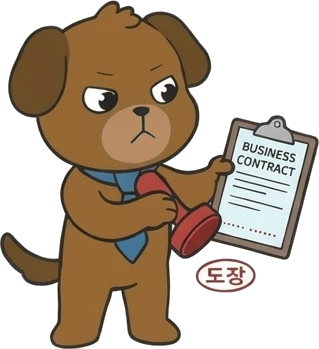
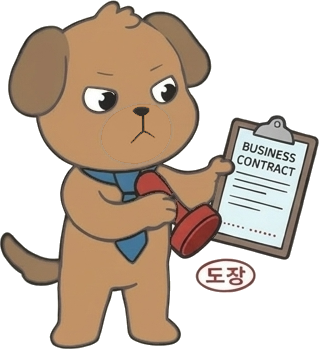
새 강아지 자세 6종 몸·주둥이 색을 기존 강아지와 맞춤

diff --git a/_tools/toon-cut.html b/_tools/toon-cut.html
@@ -49,7 +49,7 @@ const load = n => sheets[n] || (sheets[n] = new Promise(r => { const i = new Ima
     // 새 시트(이모션8·9) 강아지는 주둥이가 회베이지라, 옛 강아지 주둥이 색(196,151,110)으로 맞춘다(사용자 요청 2026-11-07).
     // 위쪽 55% 안에서 회베이지(174,158,140) 근처 색이 이어진 가장 큰 덩어리만 바꾸고, 원래 명암 차이는 살린다.
     if (name.startsWith("dog-")) {
-      const REF = [174, 158, 140], TO = [196, 151, 110], near = k => !bg[k] && Math.hypot(p[k*4]-REF[0], p[k*4+1]-REF[1], p[k*4+2]-REF[2]) < 34;
+      const REF = [174, 158, 140], TO = [199, 152, 108], near = k => !bg[k] && Math.hypot(p[k*4]-REF[0], p[k*4+1]-REF[1], p[k*4+2]-REF[2]) < 34;
       const seen = new Uint8Array(N); let best = [];
       for (let s0 = 0; s0 < w * Math.floor(h * 0.55); s0++) {
         if (seen[s0] || !near(s0)) continue; const q = [s0], mem = []; seen[s0] = 1;
@@ -58,7 +58,27 @@ const load = n => sheets[n] || (sheets[n] = new Promise(r => { const i = new Ima
             if (n >= 0 && n < w * Math.floor(h * 0.55) && !seen[n] && near(n)) { seen[n] = 1; q.push(n); } }
         if (mem.length > best.length) best = mem;
       }
-      for (const k of best) for (let c = 0; c < 3; c++) p[k*4+c] = Math.max(0, Math.min(255, TO[c] + p[k*4+c] - REF[c]));
+      // 옛 강아지는 주둥이가 얼굴과 같은 색이라, 회색 기운은 버리고 밝기 차이의 절반만 남긴다(명암만 살짝)
+      const lum = k => 0.3 * p[k*4] + 0.59 * p[k*4+1] + 0.11 * p[k*4+2], L0 = 0.3 * REF[0] + 0.59 * REF[1] + 0.11 * REF[2];
+      for (const k of best) { const dl = 0.5 * (lum(k) - L0); for (let c = 0; c < 3; c++) p[k*4+c] = Math.max(0, Math.min(255, Math.round(TO[c] + dl))); }
+      // 주둥이 둘레의 채도 낮은 중간색(옅은 원으로 보임)만 3px까지 주둥이 색으로 채운다. 얼굴 갈색·검은 선은 건드리지 않는다.
+      const ring = new Set(best); // 주둥이는 아래 몸 색 바꾸기에서 뺀다
+      for (let it = 0; it < 3; it++) { const add = [];
+        for (const k of ring) for (const n of [k - 1, k + 1, k - w, k + w]) {
+          if (n < 0 || n >= N || ring.has(n) || bg[n]) continue; const mx = Math.max(p[n*4], p[n*4+1], p[n*4+2]), mn = Math.min(p[n*4], p[n*4+1], p[n*4+2]);
+          if (mx > 70 && (mx - mn) / mx < 0.45 && p[n*4] >= p[n*4+2]) add.push(n); }
+        for (const n of add) { if (ring.has(n)) continue; ring.add(n); const dl = 0.5 * (lum(n) - L0); for (let c = 0; c < 3; c++) p[n*4+c] = Math.max(0, Math.min(255, Math.round(TO[c] + dl))); } }
+      // 몸·귀 갈색도 옛 강아지에 맞춤: 새 몸(157,110,58)→옛 몸(199,152,110), 새 귀(112,79,44)→옛 귀(150,112,82)라 둘 다 대략 +(42,42,50)만큼 밝다.
+      // 곱하기로 바꾸면 주둥이 경계 중간색이 분홍으로 튀어서, 더하기로 바꾸고 채도 0.3~0.5 사이는 조금씩만 바꿔 경계를 부드럽게 잇는다.
+      // 주황갈색(색상 20~45도)만 바꿔서 돈주머니(채도 낮음)·도장·계산기 같은 소품은 그대로 둔다.
+      const OFF = [42, 42, 50];
+      for (let k = 0; k < N; k++) {
+        if (bg[k] || ring.has(k)) continue; const r = p[k*4], g2 = p[k*4+1], b = p[k*4+2], mx = Math.max(r, g2, b), mn = Math.min(r, g2, b);
+        if (mx < 40 || mx !== r || mx === mn) continue;
+        const hue = 60 * (g2 - b) / (mx - mn); if (hue < 20 || hue > 45) continue;
+        const t = Math.max(0, Math.min(1, ((mx - mn) / mx - 0.3) / 0.2)); if (!t) continue;
+        for (let c = 0; c < 3; c++) p[k*4+c] = Math.min(255, Math.round(p[k*4+c] + t * OFF[c]));
+      }
     }
     let x0 = w, y0 = h, x1 = 0, y1 = 0;
     for (let k = 0; k < N; k++) { if (bg[k]) { p[k * 4 + 3] = 0; continue; } const i = k % w, j = (k - i) / w;
